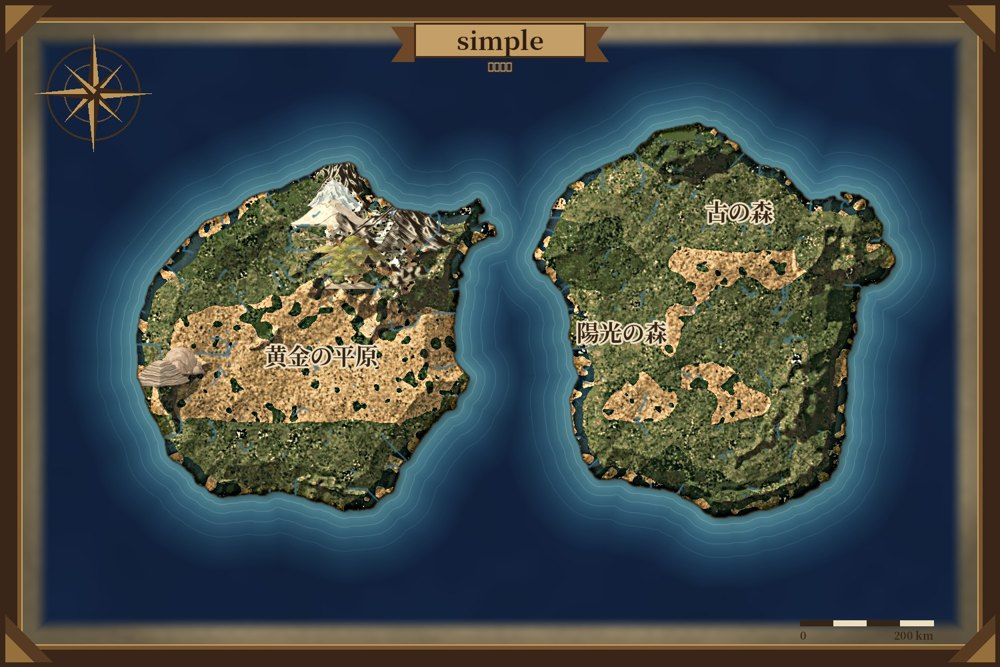
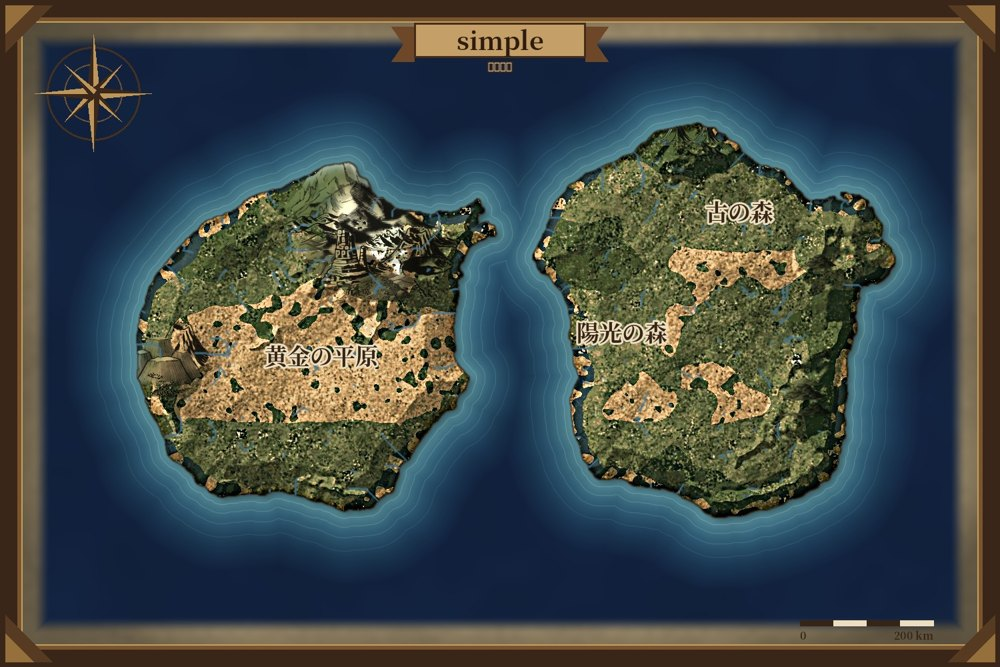
段階16 第3版: 山も稜線も部品の絵・色は元の地図・大きさを変える
Claude-Session: https://claude.ai/code/session_01NNF75WtqSrNc5QxPaYtfZJ

diff --git a/docs/apps/fantasy-war/mapstyle27.html b/docs/apps/fantasy-war/mapstyle27.html
@@ -7,12 +7,17 @@
 <h3>PWG</h3><img src="mapstyle/gv/m27_pwg.jpg"><img src="mapstyle/gv/m27_pwg_crop.jpg">
 <h3>簡易生成</h3><img src="mapstyle/gv/m27_simple.jpg">
 <h2>処理の時間とメモリ(実測)</h2>
-<table><tr><th></th><th>全体の秒</th><th>最大メモリ</th><th>置いた部品数</th></tr><tr><td>Azgaar</td><td>10.9</td><td>約600MB</td><td>99</td></tr><tr><td>PWG</td><td>13.4</td><td>約600MB</td><td>33</td></tr><tr><td>簡易生成</td><td>12.6</td><td>約600MB</td><td>19</td></tr></table>
+<table><tr><th></th><th>全体の秒</th><th>最大メモリ</th><th>置いた部品数</th></tr><tr><td>Azgaar</td><td>約10〜13</td><td>約600MB</td><td>174</td></tr><tr><td>PWG</td><td>約9〜12</td><td>約600MB</td><td>54</td></tr><tr><td>簡易生成</td><td>約8〜9</td><td>約600MB</td><td>39</td></tr></table>
+<h2>ユーザー指示(18:48)と第3版</h2>
+<p>指示: 「全ての山や稜線はこの絵で作る。色は元の地図による。絵は大きさを変えて全体をうまい絵に見せる」。<b>変更</b>: ①線だけの稜線(前の段階の稜線の線)はやめ、山も稜線も部品の絵で描く。②部品の線と明暗だけを使い、色は下の地図の地面の色から作る(雪も地図の寒い所の色)。③大きさは高さに応じて約34〜180画素幅と大きく変え、高い所は大きく、すそ野は小さな丘にする。④岩のごろごろ・台地・砂丘・火山は、その場所の点数が高い時だけ選ばれやすいようにした。</p>
 <h2>ユーザーの指摘と修正(11-19 18:42)</h2>
 <p>「ちゃんと絵を置いてない」「変な家がある」。<b>原因</b>: ①最初の版は部品の絵を灰色の明暗に変えて色を塗り直したため、元の線と色が潰れて絵として置けていなかった。②家の記号は、山とは別に前の段階から入っていた都市の仮の印(川の近くに5個、四角に赤い屋根の簡単な絵)で、位置も意味も無いまま置かれていた。<b>修正</b>: 部品の絵(線・色)をそのまま貼り、地面の色味を弱く掛けるだけにした。家の記号はこの試作では外した。</p>
-<h2>目視の評価(修正後)</h2>
+<h2>目視の評価(第2版の評価。第3版は下)</h2>
 <ul><li>良くなった点: 元の線画の線と明暗が見える。外形が地形で変わる。家の記号が消えた。</li>
 <li>まだ悪い点: 丸い岩山・岩のごろごろ・台地が多く選ばれ、山の連なり感が弱い。台地(柱状の塊)が地面から浮いて見える所がある。色は部品の紙色が残り、地面と色が合わない所がある。手前の地形を前に置く処理(⑤)が未実装。山の少ない世界(簡易生成)はほぼ山が無い。</li></ul>
+<h2>目視の評価(第3版)</h2>
+<ul><li>良くなった点: 山が地図の色(砂色・緑)になり、浮いた灰色の切り絵感が減った。大小の山が重なり、山脈らしいかたまりができた。線の稜線は無くなり、山の絵だけで山地ができている。</li>
+<li>まだ悪い点: 全体に暗く、墨の黒が濃い所がある。岩の塔(樽のような形の台地)や細い尖塔が目立って不自然な所がある。山脈の縁(すそ野)の移りが急で、山の塊として見える所がある。手前の地形を前に置く処理(⑤)は未実装。</li></ul>
 <h2>限界・未確認</h2>
 <ul><li>各1枚・目視のみ。点数は私の推論の案で、ユーザー確認前。</li>
 <li>火山性・浸食台地は乱数の場から仮の割合(4%・8%)で当てており、地球の分布の率は未調査。</li>

diff --git a/docs/apps/fantasy-war/mapstyle/tools/pipeline/gv/mtn16.py b/docs/apps/fantasy-war/mapstyle/tools/pipeline/gv/mtn16.py
@@ -10,6 +10,7 @@ from scipy import ndimage as ndi
 _HERE = os.path.dirname(os.path.abspath(__file__))
 _FW = os.path.abspath(os.path.join(_HERE, '..', '..', '..', '..'))      # apps/fantasy-war
 _SC = os.path.abspath(os.path.join(_HERE, '..', '..', 'parts_scores.json'))
+CATW = {'岩場・岩塊': 0.35, '台地・メサ': 0.5, '崖・地層': 0.6, '砂丘': 0.5, '火山': 0.6, '火口': 0.3, '草の丘': 0.6}
 SKIP = {'砂漠の飾り', '混合の連なり', '峡谷'}
 PAPER, INKC = 222.0, 33.0
 
@@ -34,7 +35,7 @@ def _cos(u, V):
     nu = np.linalg.norm(u) + 1e-6; nv = np.linalg.norm(V, axis=1) + 1e-6
     return (V @ u) / (nu * nv)
 
-def paint(img, Hh, land, bio, seed=1, scale=1.0, dens=1.0, hi=60.0, min_region=700, volc_rate=0.04, plat_rate=0.08):
+def paint(img, Hh, land, bio, seed=1, scale=1.0, dens=0.55, hi=50.0, min_region=500, volc_rate=0.04, plat_rate=0.08):
     rs = np.random.RandomState(seed * 11 + 5)
     P = _load()
     if not P: return img, 0
@@ -64,6 +65,7 @@ def paint(img, Hh, land, bio, seed=1, scale=1.0, dens=1.0, hi=60.0, min_region=7
     volc = (fv >= 1 - volc_rate).astype(np.float32); volc = ndi.gaussian_filter(volc, 6); volc = np.clip(volc * 3, 0, 1)
     plat = ((fp >= 1 - plat_rate * (0.6 + 1.6 * dry))).astype(np.float32); plat = ndi.gaussian_filter(plat, 6); plat = np.clip(plat * 3, 0, 1)
     ground = cv2.GaussianBlur(img, (0, 0), 10)
+    gbase = cv2.GaussianBlur(img, (0, 0), 2.5)
     clump = ndi.gaussian_filter(rs.rand(H0, W0).astype(np.float32), 18); clump = (clump - clump.min()) / (clump.max() - clump.min() + 1e-6)
     dist = ndi.distance_transform_edt(region)
     items = []
@@ -78,45 +80,53 @@ def paint(img, Hh, land, bio, seed=1, scale=1.0, dens=1.0, hi=60.0, min_region=7
                     xi, yi = int(min(x, W0 - 1)), int(min(y, H0 - 1))
                     if m[yi, xi] and clump[yi, xi] > 0.25 + 0.25 * rs.rand():
                         c = min(dist[yi, xi] / 24.0, 1.0)
-                        wd = (44 + 100 * hn[yi, xi] ** 1.0 + 18 * c) * (0.6 + 0.8 * clump[yi, xi]) * rs.uniform(0.8, 1.25) * scale
+                        wd = (34 + 150 * hn[yi, xi] ** 1.2 + 18 * c) * (0.6 + 0.8 * clump[yi, xi]) * rs.uniform(0.75, 1.3) * scale
                         v = np.array([hn[yi, xi] * 0.8 + 0.2 * c, steep[yi, xi], cold[yi, xi], dry[yi, xi], wet[yi, xi], volc[yi, xi], plat[yi, xi], 1 - steep[yi, xi]], np.float32)
                         items.append((y, x, wd, v, hn[yi, xi]))
-                        x += wd * rs.uniform(0.6, 0.95)
+                        x += wd * rs.uniform(0.45, 0.8)
                     else:
                         x += 6
-            y += 20 * rs.uniform(0.8, 1.2) / math.sqrt(dens)
+            y += 16 * rs.uniform(0.8, 1.2) / math.sqrt(dens)
     items.sort(key=lambda a: a[0])
     out = img.copy().astype(np.float32); n = 0; used = {}
     for (by, bx, wd, v, hnv) in items:
         cs = _cos(v, G)
         # 火山性・浸食台地の場の上では、その種類を強める(場=地球の分布の率で当てはめる前提の仮の値)
-        top = np.argsort(-cs)[:6]
+        top = np.argsort(-cs)[:10]
         w = np.exp((cs[top] - cs[top].max()) / 0.05)
-        for j, ti in enumerate(top): w[j] *= 1.0 / (1 + used.get(P[ti]['id'], 0) * 0.15)
+        for j, ti in enumerate(top):
+            cw = CATW.get(P[ti]['cat'], 1.0)
+            if P[ti]['cat'] == '台地・メサ': cw *= 0.4 + 2.5 * v[6]
+            if P[ti]['cat'] == '火山': cw *= 0.3 + 2.5 * v[5]
+            if P[ti]['cat'] in ('砂丘',): cw *= 0.3 + 1.5 * v[3]
+            w[j] *= cw / (1 + used.get(P[ti]['id'], 0) * 0.15)
         w /= w.sum(); p = P[top[rs.choice(len(top), p=w)]]
         used[p['id']] = used.get(p['id'], 0) + 1
         t, a = p['t'], p['a']
         hh, ww = t.shape[:2]
         sc = wd / ww
-        sc = min(sc, 150.0 / hh) if hh > 0 else sc
+        sc = min(sc, 210.0 / hh) if hh > 0 else sc
         nw, nh = max(8, int(ww * sc)), max(6, int(hh * sc))
         if nw < 10 or nh < 6: continue
         ts = cv2.resize(t, (nw, nh), interpolation=cv2.INTER_AREA); as_ = cv2.resize(a, (nw, nh), interpolation=cv2.INTER_AREA)
-        # ---- ③色: 部品の絵(線と色)はそのまま使い、下の地面の色味を弱く掛けるだけにする
+        # ---- ③色: 色は元の地図(下の地面の色)による。部品からは線と明暗(絵)だけを使う
         x0, y0 = int(bx - nw / 2), int(by - nh)
-        xi, yi = int(min(max(bx, 0), W0 - 1)), int(min(max(by, 0), H0 - 1))
-        g = ground[yi, xi]
-        tintv = 0.78 + 0.22 * (g / (g.mean() + 1e-6)); tintv = np.clip(tintv, 0.8, 1.12)
-        col = np.clip(ts * tintv[None, None, :], 0, 255)
+        ya, yb, xa, xb = max(y0, 0), min(y0 + nh, H0), max(x0, 0), min(x0 + nw, W0)
+        if ya >= yb or xa >= xb: continue
+        sy, sx = ya - y0, xa - x0; ey, ex = sy + (yb - ya), sx + (xb - xa)
+        lum = ts.mean(2)
+        tt = np.clip((lum - INKC) / (PAPER - INKC), 0, 1)
+        shade = (0.10 + 1.05 * np.clip((tt - 0.25) / 0.75, 0, 1) ** 1.0 + 0.0 * tt)[..., None]
+        shade = np.where(tt[..., None] < 0.25, 0.10 + 0.5 * tt[..., None], shade)
+        gb = ground[ya:yb, xa:xb]
+        col = np.zeros((nh, nw, 3), np.float32)
+        col[sy:ey, sx:ex] = np.clip(gb * shade[sy:ey, sx:ex] * 1.10 + 4, 0, 255)
         # ④足もとのぼかし(地面になじませる)
         fade = np.ones(nh, np.float32); k = max(2, int(nh * 0.14)); fade[-k:] = np.linspace(1, 0.15, k)
         al = (as_ * fade[:, None])[..., None]
         # 影(右下)
         sh = np.zeros((nh, nw), np.float32); cv2.ellipse(sh, (nw // 2 + int(nw * 0.08), nh - 2), (int(nw * 0.5), max(2, int(nh * 0.06))), 0, 0, 360, 1.0, -1)
         sh = cv2.GaussianBlur(sh, (0, 0), 2.0)
-        ya, yb, xa, xb = max(y0, 0), min(y0 + nh, H0), max(x0, 0), min(x0 + nw, W0)
-        if ya >= yb or xa >= xb: continue
-        sy, sx = ya - y0, xa - x0; ey, ex = sy + (yb - ya), sx + (xb - xa)
         reg = out[ya:yb, xa:xb]
         reg *= (1 - 0.22 * sh[sy:ey, sx:ex, None])
         aa = al[sy:ey, sx:ex]

diff --git a/docs/apps/fantasy-war/mapstyle/tools/pipeline/gv/gstyle10.py b/docs/apps/fantasy-war/mapstyle/tools/pipeline/gv/gstyle10.py
@@ -79,7 +79,7 @@ def render(my,out,seed=1,title='三極の大陸',sub='THE THREE CONTINENTS'):
         _w=cv2.GaussianBlur(np.isin(bio,[10,11]).astype(np.float32),(0,0),6)*np.clip((Hh-70)/60,0,1)
         _w=(_w*np.clip((0.45-np.linspace(0,1,H0,dtype=np.float32)[:,None])/0.15,0,1))[...,None]*0.65
         gr=gr*(1-_w)+np.array([238,234,224],np.float32)*_w
-    if RIDGE:
+    if RIDGE and os.environ.get('FM_MTN')!='parts':   # 部品方式では稜線も部品の絵で描くので、線の稜線は使わない
         import ridge2 as _r
         ink,_=_r.ridge_layer2(Hh,land,seed=my,**RK.get(my,{}))
         ink=cv2.GaussianBlur(ink,(0,0),0.5)[...,None]*0.85

diff --git a/docs/apps/sekai-hex/design/STATE.md b/docs/apps/sekai-hex/design/STATE.md
@@ -94,6 +94,7 @@
 - 【試作 11-19 部品5】砂漠の見本シート(線画・幅506)から45個を切り出し(砂丘・オアシス・サボテン・岩・台地・峡谷・らくだ隊・天幕など。山以外の飾りを含む)。砂の紋様は断片になった。部品は計178個。目視のみ。ページ: mapstyle25.html。
 - 【試作 11-19 点数表】部品177個に、地形の8軸(高さ・険しさ・寒さ・乾燥・湿潤・火山性・浸食台地・なだらか)の点数を私の推論で付けた案(群れの点数と頂点の点数。種類19区分ごとの基準)。試しに4つの地形でコサイン類似度の上位部品を表示。限界: 私の見立て・部品ごとの個別差なし・火山性と浸食台地は世界データに無い・目視。ページ: mapstyle26.html。データ: mapstyle/tools/parts_scores.json。次: ユーザーが点数を確認・修正。
 - 【試作 11-19 段階16】ユーザー「点数表はそのままでいこう」。部品を地形の点数との向きの近さで選び、地形から色を作って置く方式(mtn16.py、run_pipeline --mtn parts)を3つの世界で実行(各約11〜13秒・約600MB・手調整なし)。【ユーザー指摘】絵を置けていない・変な家がある→原因は部品を灰色の明暗に塗り直して線と色を潰したこと、家は都市の仮の記号(今回は外した)。修正版は部品の絵をそのまま貼る。印象(修正後): 線と明暗が見え外形が地形で変わる。悪い: 丸い岩山・台地が多く連なり感が弱い、台地が浮く所あり、紙色が地面と合わない所あり、丸い岩山が多く連なり感が弱い、山が少ない世界はほぼ無し。未実装: ⑤手前の地形を前に置く・形の変更。火山性4%・台地8%は仮の割合。各1枚・目視。ページ: mapstyle27.html。次: 寒さの効きを弱め、連なりの置き方を直す。
+- 【試作 11-19 段階16 第3版 ユーザー指示】「全ての山や稜線はこの絵(部品)で作る。色は元の地図による。絵は大きさを変えて全体をうまい絵に見せる」。実施: 線の稜線をやめ、山も稜線も部品で描く/部品の線と明暗だけ使い色は下の地図から/大きさを高さで約34〜180画素に変える/岩塊・台地・砂丘・火山は点数が高い所だけ選ばれやすく。3つの世界で手調整なし(約8〜13秒・約600MB)。印象: 地図の色になり山脈のかたまりができた。悪い: 全体に暗い、塔・台地が不自然、すそ野の移りが急、⑤未実装。各1枚・目視。ページ: mapstyle27.html。次: 明るさと不自然な部品の選ばれ方を直す。
 - 【未決】ランドマークの表現(種類・数・選び方・絵か立体か)。世界の層の見せ方=分かりやすさ+芸術性の融合(11-16)。
 
 ---
